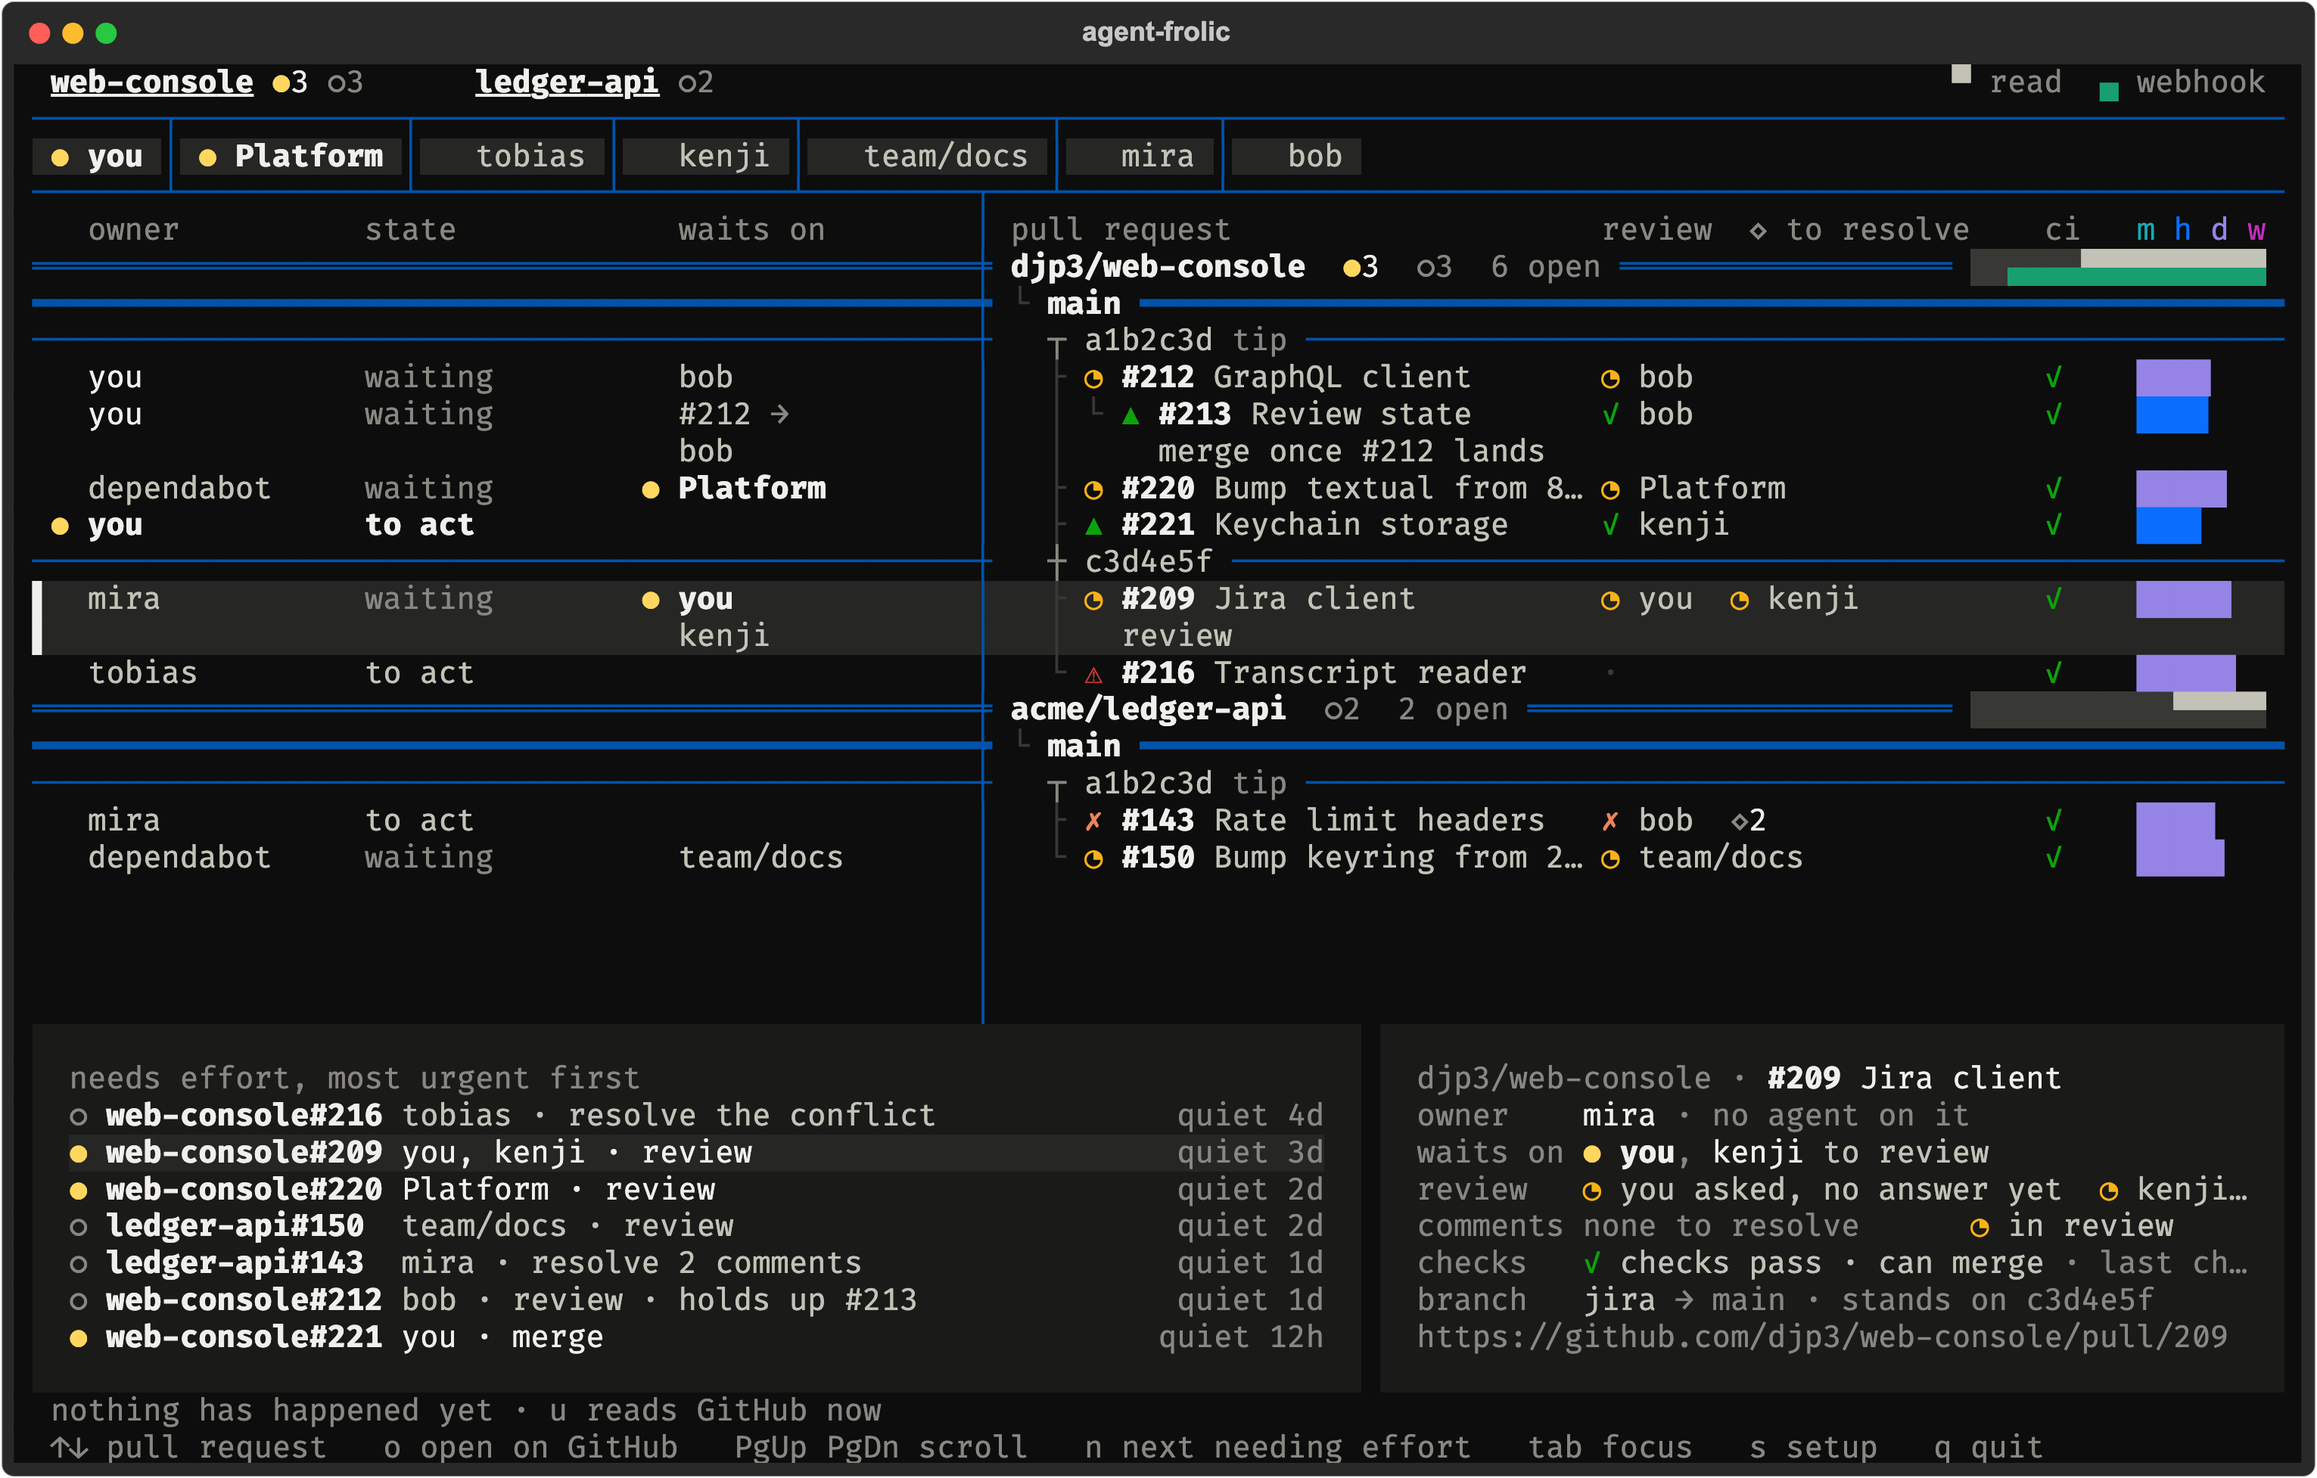
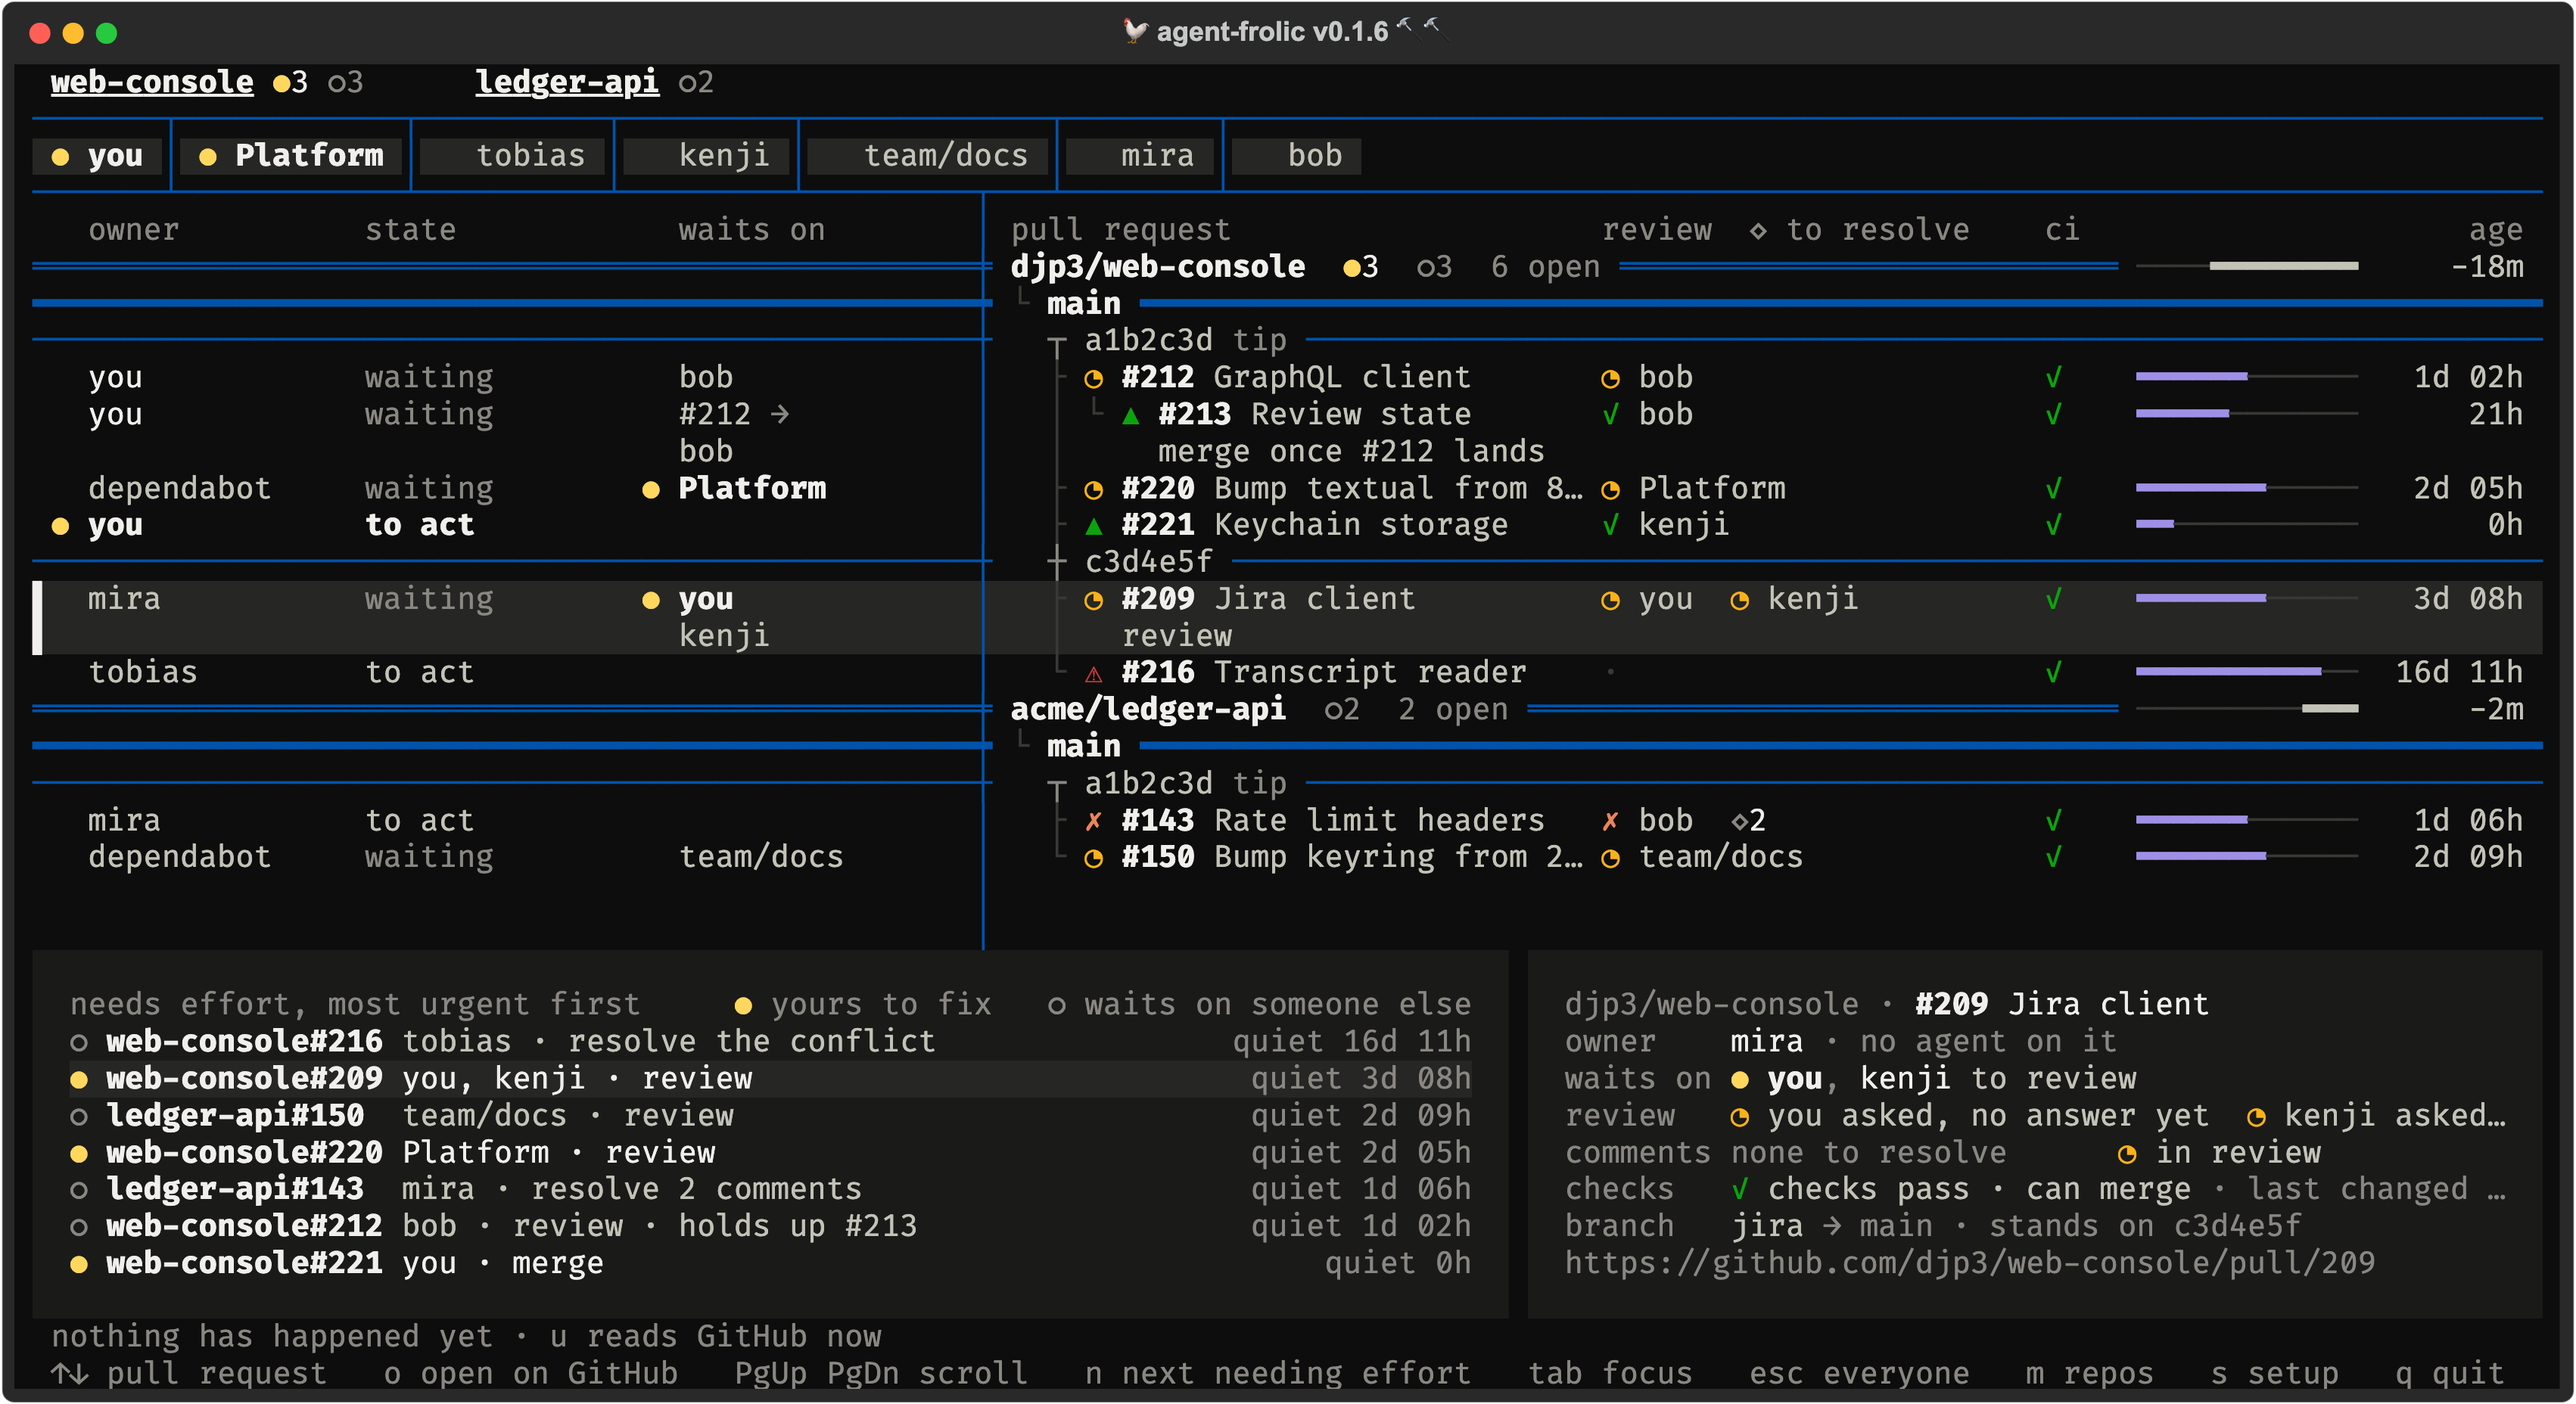
The README's picture is of the board as it is now
The picture still showed the bars of two releases ago: a quiet column under "m h d w"
in four colors, and two bars at the end of each repository's line with their key in
the top line. It now shows the board of 0.1.6, on the same made-up pull requests as
before: each one's age as a violet bar and a figure in days and hours, each
repository's line ending in the white of its timer and the minutes to its next read,
and the window's title with its version and hammers.

It is drawn 138 columns wide, the narrowest at which the age keeps its bar, so that
it can still be read at the width the README is shown. At that width the board has
given up the progress column, as the picture before had at its own.

diff --git a/README.md b/README.md
@@ -16,7 +16,7 @@ board: see [below](#made-to-work-with-agent-farm-and-agent-grange).
 **[Download for Mac](https://github.com/djp3/agent-frolic/releases/latest)** · macOS 27+ on
 Apple silicon · free and open source
 
-![agent-frolic showing the open pull requests of two repositories: a card for each person and team something waits on, the pull requests drawn as stacks, what needs effort, and the drawer for the selected one](docs/screenshot.png)
+![agent-frolic showing the open pull requests of two repositories: a card for each person and team something waits on, the pull requests drawn as stacks, each with its age as a bar and a figure, each repository's line ending in the countdown to its next read, what needs effort, and the drawer for the selected one](docs/screenshot.png)
 
 ### What is yours to move is yellow
 
